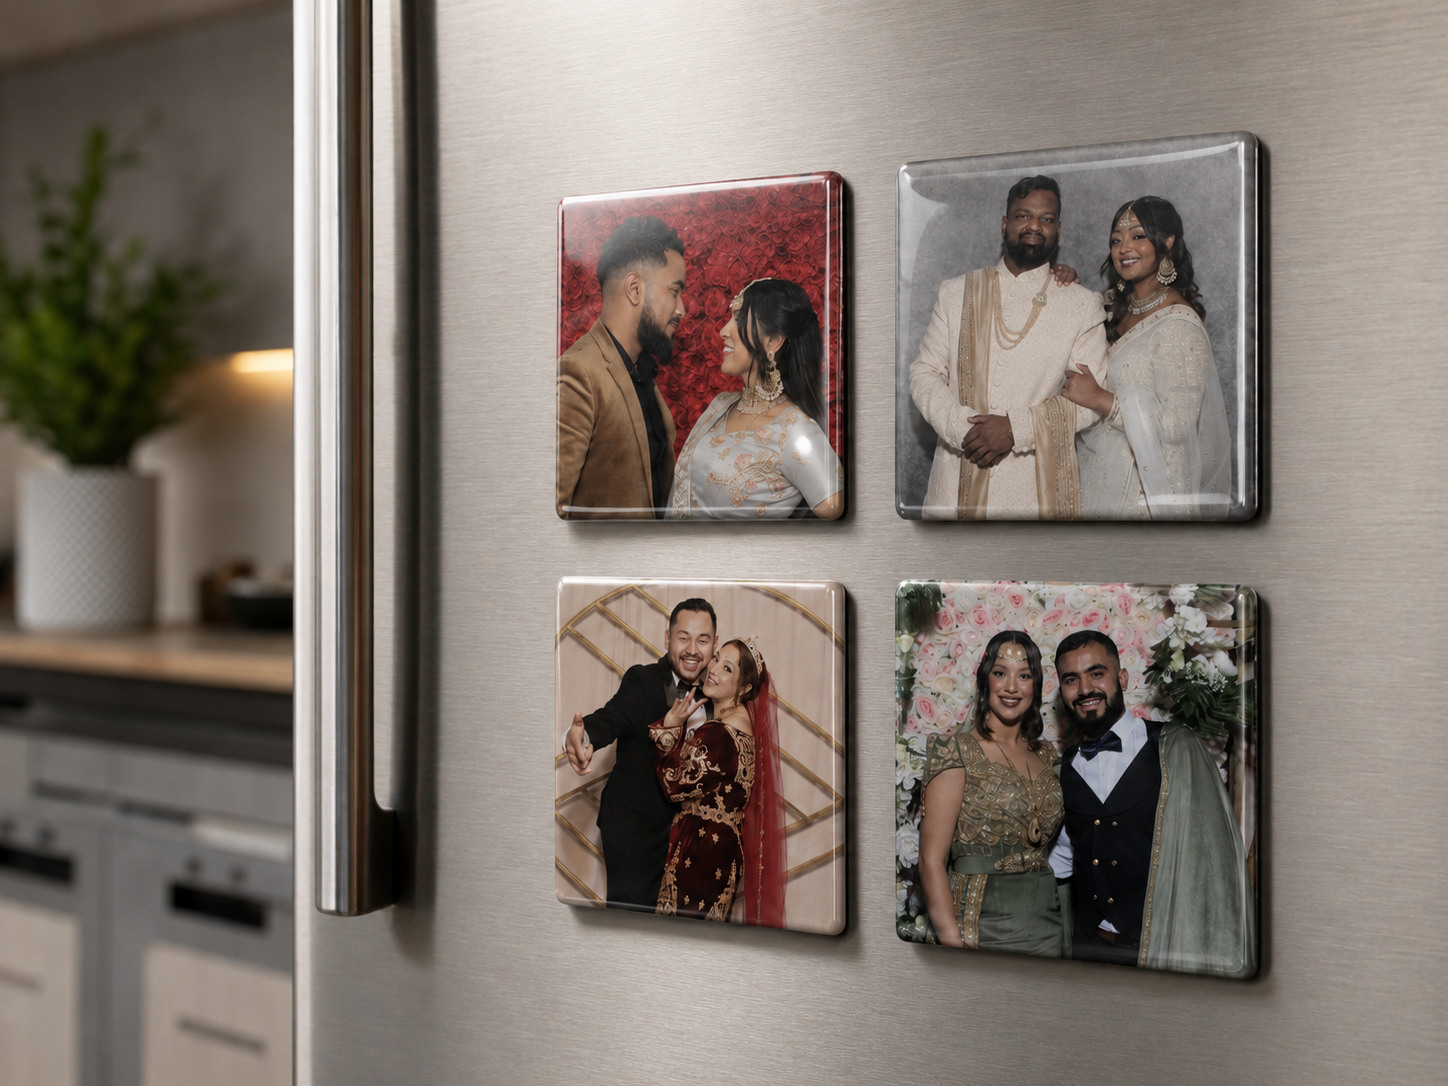
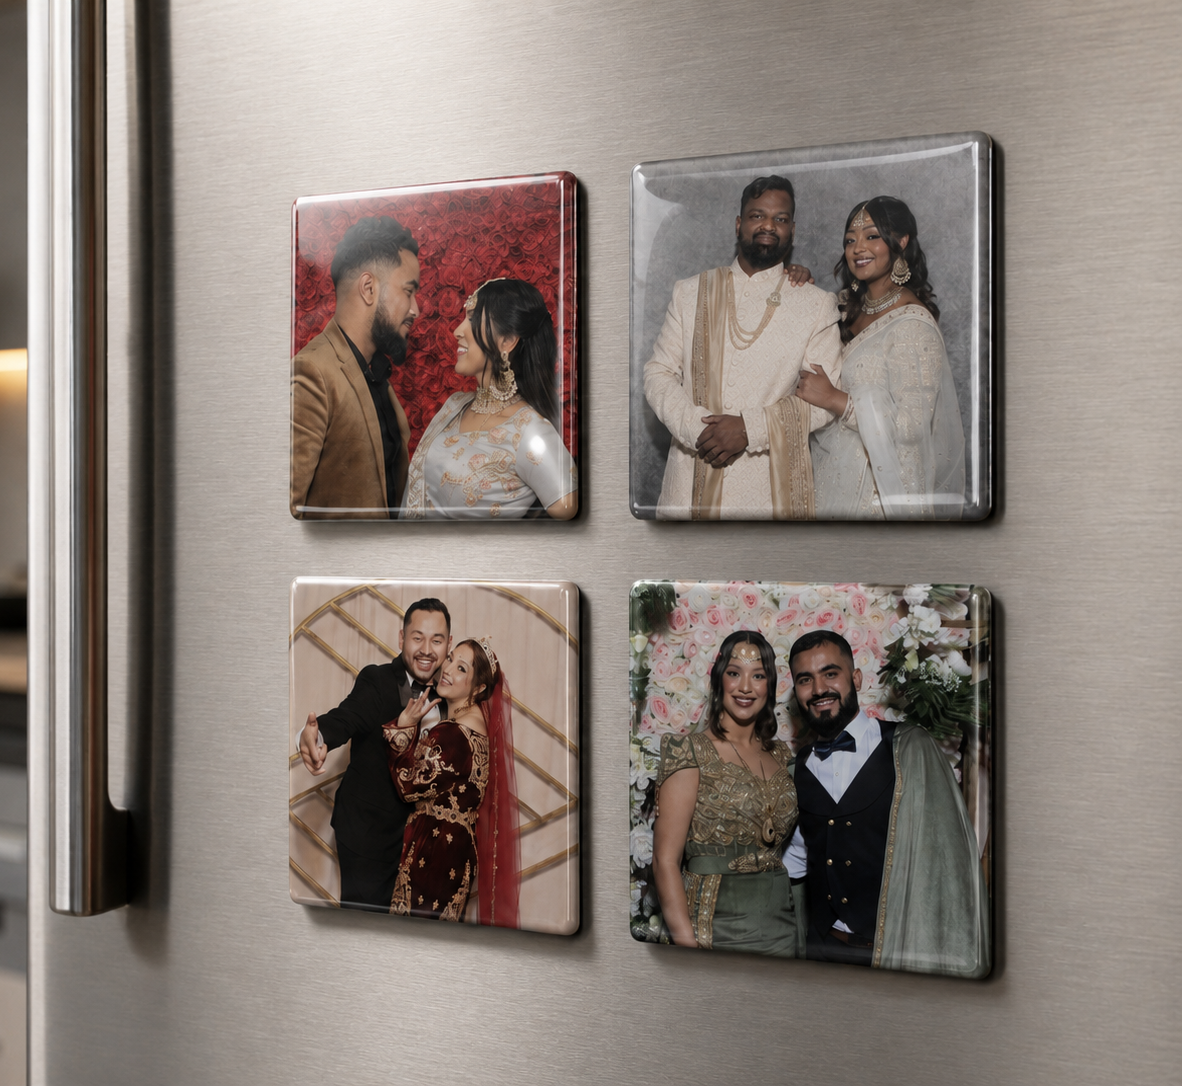
images

diff --git a/app/templates/app/frontend/demande_devis.html b/app/templates/app/frontend/demande_devis.html
@@ -1014,7 +1014,7 @@
     .quantity-choice.recommended::before {
         content: "Populaire";
         position: absolute;
-        top: -10px;
+        top: -5px;
         right: -10px;
         padding: 3px 7px;
         border-radius: 999px;
@@ -1395,7 +1395,7 @@
         .product-card img,
         .line-option-card img,
         .quantity-line-option img {
-            height: 240px;
+            height: 400px;
         }
 
         .quantity-line-actions {